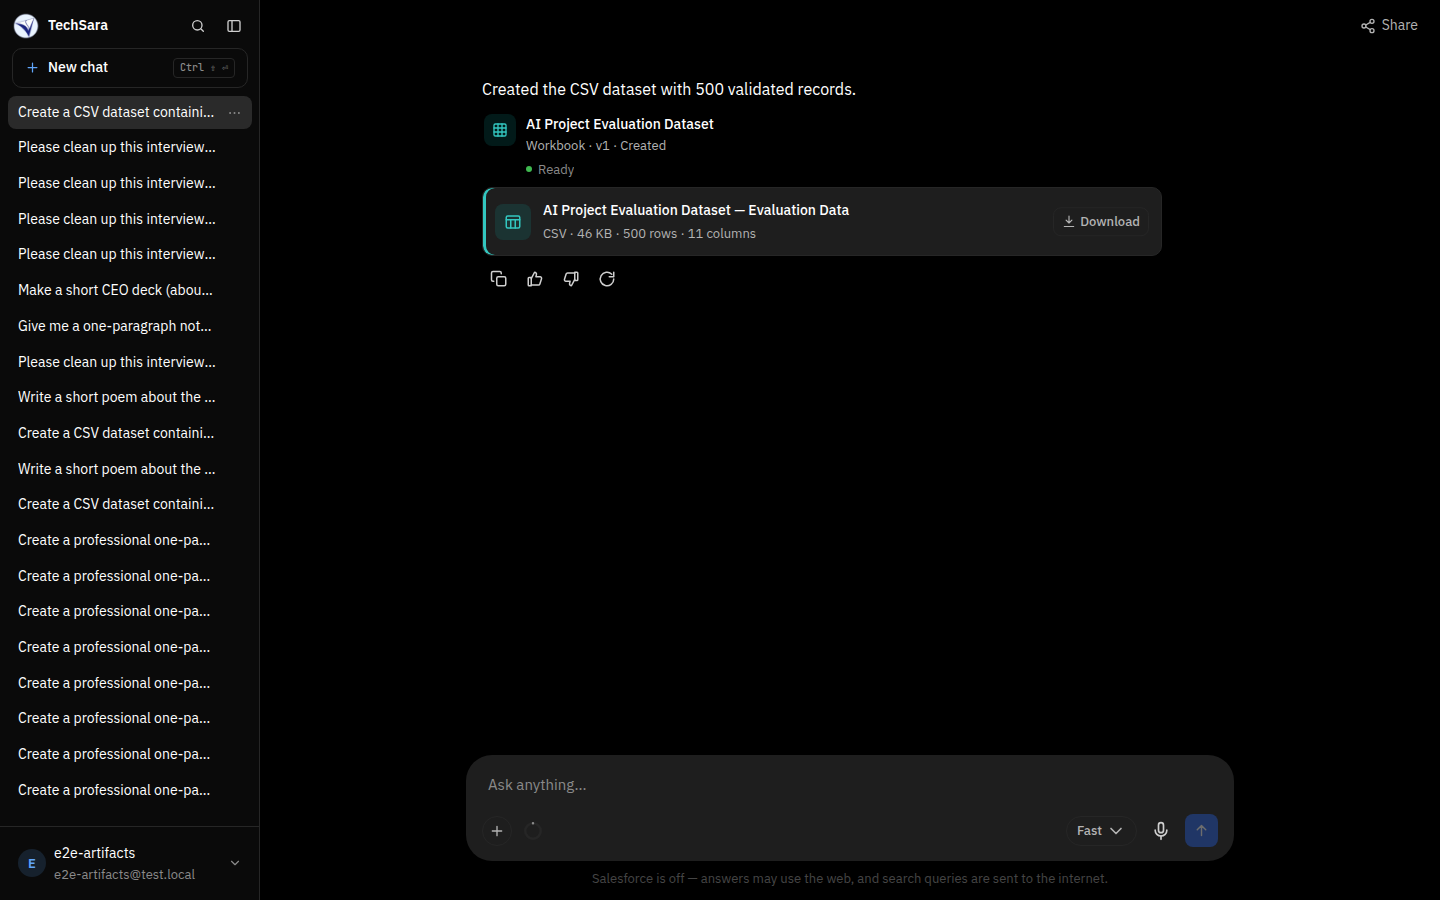
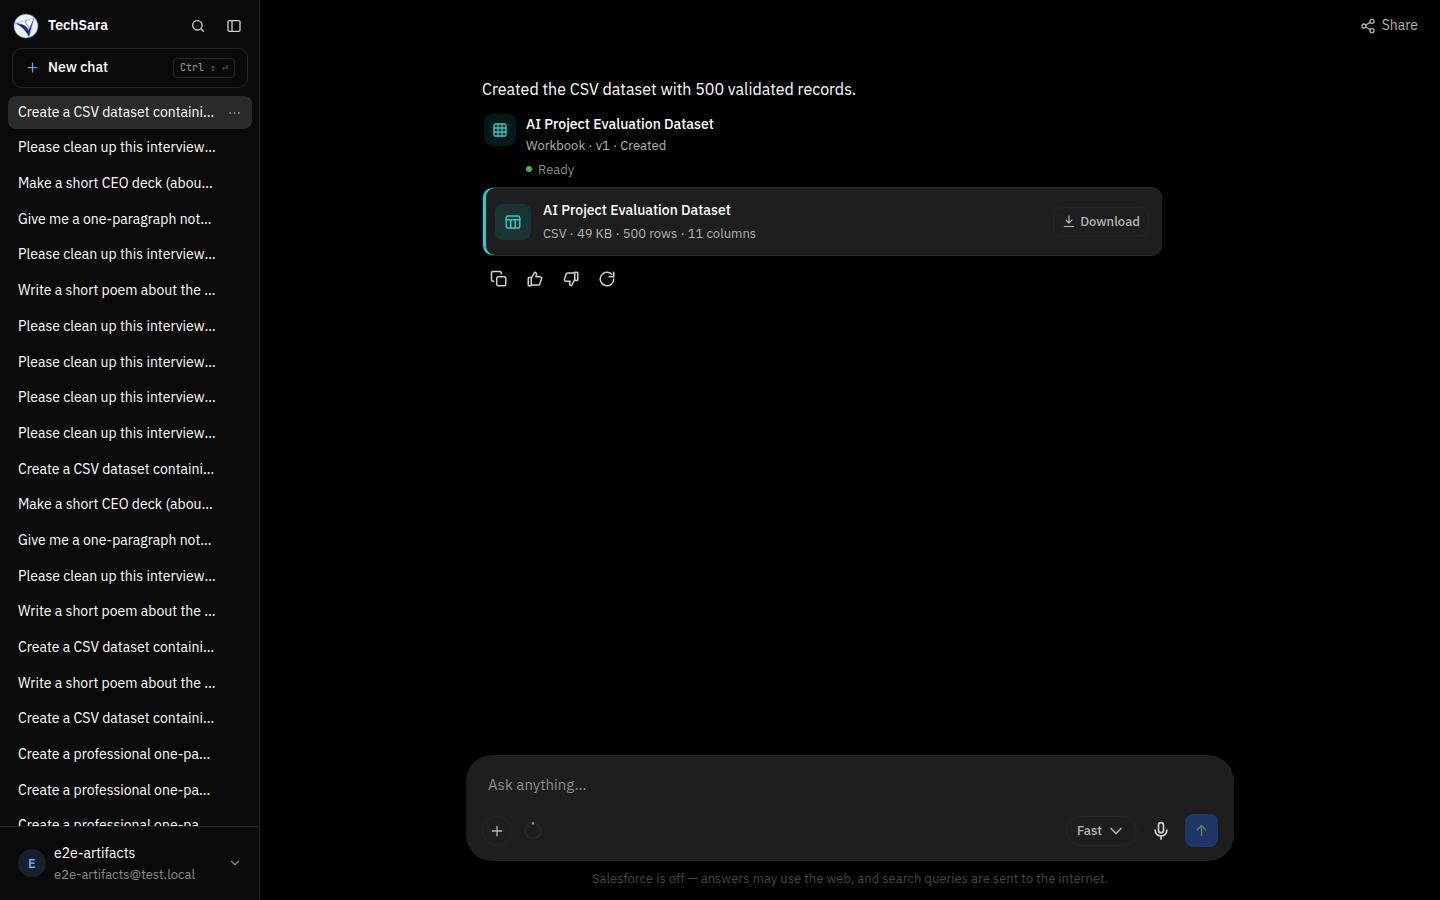
docs(artifacts): test plan §H — the final e2e run on the committed tree, the security review, the retaken CSV card, counts per suite

diff --git a/docs/artifact-studio/TEST_PLAN.md b/docs/artifact-studio/TEST_PLAN.md
@@ -62,18 +62,18 @@ Looking at the rendered pages (not only reopening the files) is what found the b
 
 ## H. Artifact Studio 2 (2026-09-12): CSV, file identity, generated and pasted tables, one card per file
 
-Counts are from `dev` on 2026-09-12; every backend suite ran on a private PostgreSQL database, every render suite with the real libraries; the browser tests are vitest/jsdom; the end-to-end runs used the isolated stack (`scripts/e2e-stack.sh`) with the real model and renderers and `scripts/artifact_smoke2.py`, which reopens every byte it checks.
+Counts are from `dev` on 2026-09-12 after the security round (collected per file); every backend suite ran on a private PostgreSQL database, every render suite with the real libraries; the browser tests are vitest/jsdom; the end-to-end runs used the isolated stack (`scripts/e2e-stack.sh`) with the real model and renderers and `scripts/artifact_smoke2.py`, which reopens every byte it checks.
 
 | area | tests | what is proven |
 |---|---|---|
-| Intent and formats (`test_artifact_intent.py` 111, `test_artifact_formats.py` 76) | 187 | Scenario A is a create with `csv` and `row_count=500`; Scenario B is a **create of a new artifact** after an existing one (the first-clause rule — every one of the five phrasings that used to become an edit); the four Scenario D questions stay text; the Scenario E follow-ups stay edit/edit/edit/convert; "Share XLSX, Word, PDF, and CSV" → all four in order; "XLSX or CSV" → both; typos (`cvs`, `spread sheet`, `xlxs`, `powerpint`); `raw_text` keeps tabs and newlines |
-| Spec (`test_artifact_spec.py` 42) | 42 | `csv` in `FORMATS_FOR_KIND["workbook"]`; `file_id_for` deterministic and 16-hex; `download_name(part)`; refs with and without ids build the right URLs and `download_all_url`; `rows_from`, `generator` (recipes must match the sheet's columns), `rewrite`, `style` validate; a filled sheet keeps its provenance |
-| Tables (`test_artifact_tables.py` 92) | 92 | the 34-row messy paste parses to 34 × 9 with 44 blanks in the right cells, no shifted columns, an inch mark cannot merge rows; forward-fill on evidence, recorded per row; markdown, comma and space-aligned tables; the 10k-row / 5 MB cap; date/number helpers; `generate_rows` exactly N, unique, ranges, `only_when` blanks, determinism; `apply_rewrites` keeps the original when a timestamp or a quoted span is lost |
-| CSV (`test_artifact_render_csv.py` 21) | 21 | RFC 4180 bytes (CRLF, no BOM, quoting), integral floats, control characters, formula leads neutralised but `-2` / `1,000` / `12%` untouched, `validate_csv` refuses 499 for 500, ragged rows, zero bytes, NUL, a 200,000-char cell; the grid reader's bounds |
-| Renderers (`test_artifact_render_*.py`) | 146 → 164 | a workbook to xlsx + csv + docx + pdf from one spec; per-sheet CSVs with part names; `SheetStyle` (thin black borders, bold header, dark header fill, red highlight pairs 9C0006/FFC7CE, wrap, text ids, blanks stay blank); the tabular Word document is landscape with `w:tblHeader`; the tabular PDF is landscape with a repeated header and no blank trailing page; row counts by reopening; `grid_for` for csv and xlsx; `/health` names csv |
-| Composer (`test_artifact_compose.py` 37) | 37 | `rows_from` copies the paste verbatim (trailing blank rows left out with a note); a generator makes exactly the rows asked for, the person's count winning; recipes the generator cannot follow become ones it can (the three shapes the first real run failed on); rewrite batches with acceptance and rejection; requested sections checked and corrected once; caps never trim a requested section |
-| Engine (`test_artifact_engine.py`) | 18 → 33 | Scenario A end to end with the real renderer (500 rows validated, the dataset sentence); Scenario C (the paste → four files, the transform sentence); tables from the previous turn; uploads from the workspace; every sentence shape, never "Updated" on a create; the `/f/{file_id}` URL |
-| Jobs, store, API, chat (`test_artifact_jobs.py` 62, `_store` 18, `_api` 14, `_chat` 6) | 100 | ids minted by the pipeline and stable across a retry; a CSV whose rows differ from the generator's count is refused; legacy rows upgraded on the wire; `transform.json` reaches the render job; `/f/{id}` owner-scoped and 404 before lookup for a bad id; `/zip` streams three entries with the right names and refuses past the bound; `/grid` for csv and xlsx; an artifact turn emits no `memory_updated` and writes no `user_facts` row; a failed first attempt no longer turns the retry into an edit; **a lease orphaned by a restart is requeued within seconds** |
+| Intent and formats (`test_artifact_intent.py` 126, `test_artifact_formats.py` 76) | 202 | Scenario A is a create with `csv` and `row_count=500`; Scenario B is a **create of a new artifact** after an existing one (the first-clause rule — every one of the five phrasings that used to become an edit); the four Scenario D questions stay text; the Scenario E follow-ups stay edit/edit/edit/convert; "Share XLSX, Word, PDF, and CSV" → all four in order; "XLSX or CSV" → both; typos (`cvs`, `spread sheet`, `xlxs`, `powerpint`); `raw_text` keeps tabs and newlines |
+| Spec (`test_artifact_spec.py` 43) | 43 | `csv` in `FORMATS_FOR_KIND["workbook"]`; `file_id_for` deterministic and 16-hex; `download_name(part)`; refs with and without ids build the right URLs and `download_all_url`; `rows_from`, `generator` (recipes must match the sheet's columns), `rewrite`, `style` validate; a filled sheet keeps its provenance |
+| Tables (`test_artifact_tables.py` 100) | 100 | the 34-row messy paste parses to 34 × 9 with 44 blanks in the right cells, no shifted columns, an inch mark cannot merge rows; forward-fill on evidence, recorded per row; markdown, comma and space-aligned tables; the 10k-row / 5 MB cap; date/number helpers; `generate_rows` exactly N, unique, ranges, `only_when` blanks, determinism; `apply_rewrites` keeps the original when a timestamp or a quoted span is lost |
+| CSV (`test_artifact_render_csv.py` 24) | 24 | RFC 4180 bytes (CRLF, no BOM, quoting), integral floats, control characters, formula leads neutralised but `-2` / `1,000` / `12%` untouched, `validate_csv` refuses 499 for 500, ragged rows, zero bytes, NUL, a 200,000-char cell; the grid reader's bounds |
+| Renderers (`test_artifact_render_*.py`, csv included) | 146 → 206 | a workbook to xlsx + csv + docx + pdf from one spec; per-sheet CSVs with part names; `SheetStyle` (thin black borders, bold header, dark header fill, red highlight pairs 9C0006/FFC7CE, wrap, text ids, blanks stay blank); the tabular Word document is landscape with `w:tblHeader`; the tabular PDF is landscape with a repeated header and no blank trailing page; row counts by reopening; `grid_for` for csv and xlsx; `/health` names csv |
+| Composer (`test_artifact_compose.py` 43) | 43 | `rows_from` copies the paste verbatim (trailing blank rows left out with a note); a generator makes exactly the rows asked for, the person's count winning; recipes the generator cannot follow become ones it can (the three shapes the first real run failed on); rewrite batches with acceptance and rejection; requested sections checked and corrected once; caps never trim a requested section |
+| Engine (`test_artifact_engine.py`) | 18 → 29 | Scenario A end to end with the real renderer (500 rows validated, the dataset sentence); Scenario C (the paste → four files, the transform sentence); tables from the previous turn; uploads from the workspace; every sentence shape, never "Updated" on a create; the `/f/{file_id}` URL |
+| Jobs, store, API, chat (`test_artifact_jobs.py` 68, `_store` 18, `_api` 16, `_chat` 6) | 108 | ids minted by the pipeline and stable across a retry; a CSV whose rows differ from the generator's count is refused; legacy rows upgraded on the wire; `transform.json` reaches the render job; `/f/{id}` owner-scoped and 404 before lookup for a bad id; `/zip` streams three entries with the right names and refuses past the bound; `/grid` for csv and xlsx; an artifact turn emits no `memory_updated` and writes no `user_facts` row; a failed first attempt no longer turns the retry into an edit; **a lease orphaned by a restart is requeued within seconds** |
 | Browser (`tests/artifact-*.test.tsx`, `file-cards.test.tsx`) | 133 → 207 | one FileCard per file, four cards under one header with "Download all" and the right href/aria-label; legacy `report_files` through the same card; keys unique for two CSVs; card body opens, Download never opens; 680 px clamp; long names truncate with the full name in `title`; keyboard; prev/next order and disabled ends; CSV grid via `grid?file=`; Escape returns focus; the mobile sheet at 400 px; preview error → download fallback; proxy grammar for `f/zip/grid` and its refusals; no memory chip without `memory_updated`; a version without file cards offers Progress/Details |
 
 ### End to end (isolated stack, real model, `scripts/artifact_smoke2.py`, Fast)
@@ -86,11 +86,19 @@ Counts are from `dev` on 2026-09-12; every backend suite ran on a private Postgr
 | **D** four questions about CSV/PDF/DOCX after an artifact | all four answered as text, `route=chat`, no artifact |
 | **E** deck, "Make slide 4 shorter.", "Add a comparison chart.", "Create a PDF version too." | v2 and v3 "Updated" on the same artifact, v4 "Converted" with a PDF, 13 / 15 / 1 s |
 | every artifact turn | no `memory_updated` in the meta |
-| **restart drill** (`--restart-during-c`) | the orchestrator container restarted 7 s into the compose; the stream broke; the job was requeued and **published 26 s after the restart** with all four files. The first drill sat for 15 minutes: the startup pass ran before the dead lease had expired and the next pass was the 30-minute sweep — fixed (30 s lease check) |
+| **restart drill** (`--restart-during-c`) | the orchestrator container restarted 7 s into the compose; the stream broke; the job was requeued and published with all four files, 23/23 checks. Two drills: published 26 s after the restart, and (final tree) requeued 95 s after startup — the bound is the lease TTL (90 s) plus the 30 s check, counted from the last heartbeat before the restart. The first drill sat for 15 minutes: the startup pass ran before the dead lease had expired and the next pass was the 30-minute sweep — fixed (30 s lease check) |
+
+**Final run on the committed tree (c54c590, after the security round): A–E PASS, 74/74 checks, 124 s wall clock** — A 14.7 s, B 10.2 s + 14.3 s (3-page PDF, every section present), C 20.3 s, D 4.5 s + four text answers 1.8–3.8 s, E 11.3 s / 17.8 s / 1.2 s; then the restart drill PASS 23/23.
+
+### Security review (adversarial, 2026-09-12)
+
+Eight surfaces (the intent hook, paste parsing, generator recipes, rewrite batches, the CSV writer, the file/zip routes, pipeline leases, spec validation) were attacked by independent agents and every finding was refuted by two more; 101 attacks held, 37 findings, **19 confirmed and fixed** (commit c54c590), the rest refuted or duplicates. The two high findings: the classifier hook ran regexes over the full text of a turn (now the first `_DECIDE_CHARS` only — a 100 KB adversarial message decides in 3 ms), and pasted tables were parsed on the event loop (now `asyncio.to_thread` under `MAX_PASTE_BYTES`, newest turn first; the test measures the loop's longest stall under 0.25 s). Also: `{n:0999999999d}` allocated a gigabyte in the spec's own `format(n=1)` probe (patterns are now read with `string.Formatter`, width ≤ 40, before anything formats them); `TABULAR_MAX_CHARS` lowered from 2 M to 400 k (1.98 M chars of 50-char cells took 510 s in-process against the 180 s render window); negated clauses and formats ("not a PDF", "I don't want a PDF") no longer create or pick the format, while first-person inability ("I can't make a spreadsheet myself, can you build one?") still creates; the row count is read from the prose the parser puts before a table, never from a cell; file ids are validated by shape before any lookup; the zip is bounded (413) and refusals are 409; over-budget material is refused on retry as well as accept.
+
+Documented limits (not fixed): a rewrite that inverts meaning with no negation, figure or quoted span changed is not caught; homonyms ("directions to cvs") can read as a format; the lease is tested in one process — two orchestrator processes could both claim a job in the requeue window (the deployment is one process).
 
 ### Looking at it
 
-`docs/artifact-studio/evidence/2026-09-12-*.png`: the four-file group at 1440 px (cards aligned with the assistant column, header notes once, Download all), the grid panel at 1440 px and 400 px (sticky header, row numbers, column letters, "34 rows · 9 columns"), the deck's page panel (thumbnails, zoom, page 1/9), the CSV dataset card. What looking found and fixed: a "With notes" chip repeated on every card, a one-sheet CSV titled "Book — Sheet", dates shown as `T00:00:00`, a two-line per-cell note ahead of the cards.
+`docs/artifact-studio/evidence/2026-09-12-*.png`: the four-file group at 1440 px (cards aligned with the assistant column, header notes once, Download all), the grid panel at 1440 px and 400 px (sticky header, row numbers, column letters, "34 rows · 9 columns"), the deck's page panel (thumbnails, zoom, page 1/9), the CSV dataset card (retaken on the final tree: the one-sheet CSV keeps the workbook's title, "CSV · 49 KB · 500 rows · 11 columns"). What looking found and fixed: a "With notes" chip repeated on every card, a one-sheet CSV titled "Book — Sheet", dates shown as `T00:00:00`, a two-line per-cell note ahead of the cards.
 
 ### Measured (Fast, DGX pair, chat idle)
 
